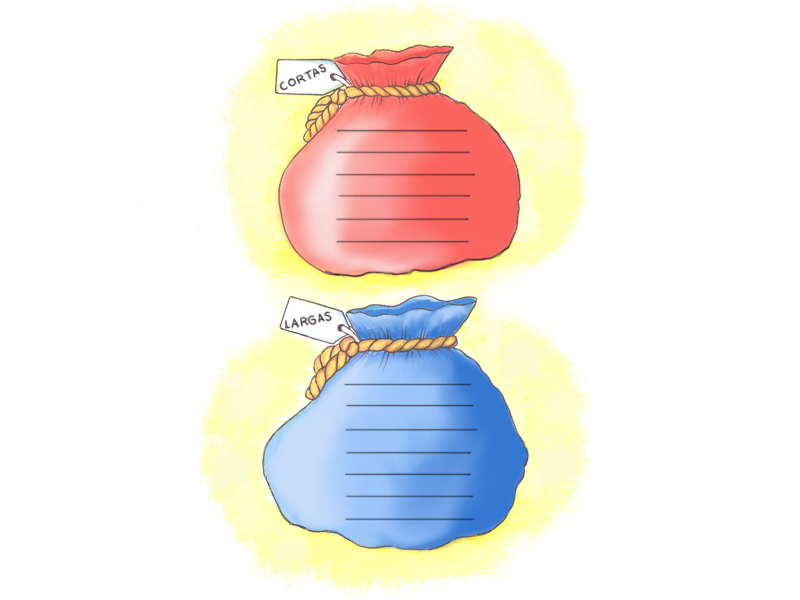
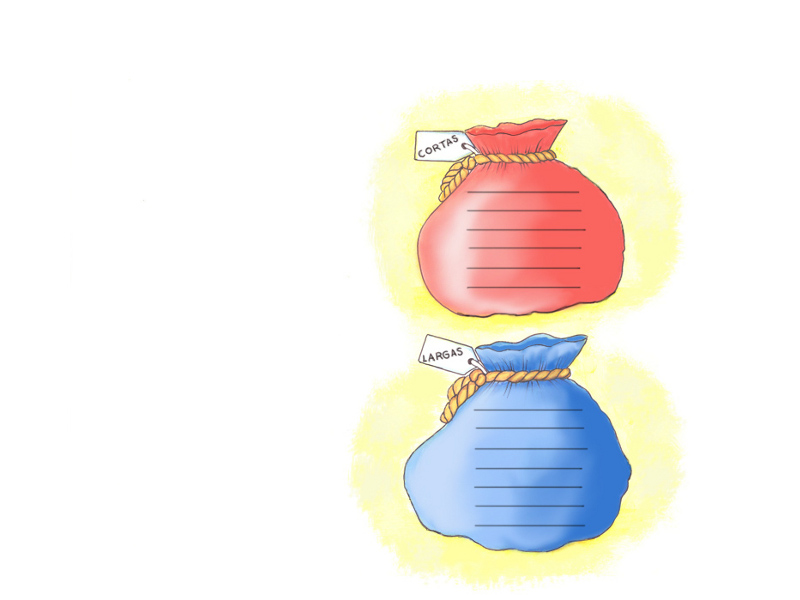
Primera versión de actividad 20
* Se agrega el código y las imáges de la actividad 20: Palabras largas,
   palabras cortas

diff --git a/src/words.py b/src/words.py
@@ -1,0 +1,228 @@
+# vim:ts=4:sts=4:et:nowrap:tw=77
+# -*- coding: utf-8 -*-
+
+import os
+import sys
+import pygame
+from pygame.sprite import Sprite
+from pygame.locals import *
+
+import constants
+from activity import Activity
+import common
+from icons import *
+
+class Word(Sprite):
+    def __init__(self, name, pos=(0,0)):
+        Sprite.__init__(self)
+        image_name = os.path.join(constants.data_folder, "words",
+                                  name  + ".png")
+        self.normal, self.rect = common.load_image(image_name, True)
+        self.size = self.normal.get_size()
+        self.origin = pos
+        self.name = name
+        self.zoom = pygame.transform.scale(self.normal, (self.size[0] * 1.3, 
+                                                        self.size[1] * 1.3))
+        self.image = self.normal
+        self.update(pos)
+        return
+
+    def change_size(self):
+        if self.image is self.normal:
+            self.image = self.zoom
+        else:
+	        self.image = self.normal
+        return
+	
+    def update(self, pos):
+        self.rect.topleft = pos
+
+    def reset(self):
+        self.rect.topleft = self.origin
+
+
+class Hand(Sprite):
+    def __init__(self):
+        Sprite.__init__(self)
+        path = os.path.join(constants.data_folder, "cursors", "hand")
+        self.open, self.rect = common.load_image(path + "-open.png")
+        self.close, self.rect = common.load_image(path + "-close.png")
+        self.image = self.open
+        return
+
+    def change_hand(self):
+        if self.image is self.open:
+            self.image = self.close
+        else:
+            self.image = self.open
+        return
+
+    def update(self, pos=(0, 0)):
+        self.rect.topleft = pos
+        return
+
+class Bag:
+    def __init__(self, name, rect, sheet, sep=19):
+        self.sep = sep
+        self.rect = Rect(rect)
+        self.sheet = sheet
+        self.next = [sheet[0], sheet[1]]
+        self.name = name
+        self.content = []
+        return
+        
+    def draw(self, screen):
+        sheet = Rect(self.sheet)
+        pygame.draw.rect(screen, (0,255,0), self.sheet)
+        pygame.draw.rect(screen, (0,2,0), self.rect)
+        return
+
+    def add(self, item):
+        item.update(self.next)
+        self.content.append(item)
+        self.next[1] += self.sep
+        return
+    
+    def contains(self, rect):
+        return self.rect.contains(rect)
+
+
+class Words(Activity):
+    def __init__(self, screen):
+        Activity.__init__(self, screen)
+        self.background = common.load_image(constants.illustration_019)[0]
+        words = {
+                'saludable': (114, 236),
+                'risa': (41, 264),
+                'alimentos': (143, 283),
+                'agua': (41, 307),
+                'descanso': (101, 346),
+                'amor': (89, 375),
+                'limpieza': (26, 407),
+                'deporte': (149, 445),
+                'sol': (59, 463),
+                'aire': (109, 490),
+                'aseo': (55, 514),
+                'banarse': (193, 542),
+                }
+
+        title = u"Palabras largas, palabras cortas"
+        instructions = (u"Estas palabras están relacionadas con la salud. ",
+                        u"  ",
+                        u"Arrastra hacia la bolsa azul ",
+                        u"las palabras que tienen ",
+                        u"menos de 5 letras y hacia la ",
+                        u"bolsa roja las que tienen ",
+                        u"más de 5 letras.")
+        font_title = pygame.font.SysFont(constants.font_title[0],
+                                         constants.font_title[1])
+        font_default = pygame.font.SysFont(constants.font_default[0],
+                                           constants.font_default[1])
+        tsize = font_title.size(title)
+        isize = font_default.size(instructions[0])[1]
+        title_pos = (constants.screen_mode[0]/2.0 - tsize[0]/2.0, 0)
+        instruction_pos = (10, title_pos[1] + tsize[1])
+        title = font_title.render(title, True, (102, 102, 102))
+        instructions_ = []
+        for i in instructions:
+            line = font_default.render(i, True, (102, 102, 102))
+            instructions_.append(line)
+        self.text = (((title,), title_pos), (instructions_, instruction_pos))
+        self.hand = Hand()
+        self.icons = pygame.sprite.Group()
+        self.icons.add([Icons('stop')])
+        self.words = pygame.sprite.Group()
+        self.sprites = pygame.sprite.OrderedUpdates()
+        for word, pos in words.items():
+            word_ = Word(word, pos)
+            self.sprites.add(word_)
+            self.words.add(word_)
+        self.sprites.add([self.icons, self.hand])
+        self.sprites.draw(self.screen)
+        self.selected = None
+        self.bags = (Bag('cortas', (430, 150, 170, 150), (475, 175, 100, 120)), 
+                     Bag('largas', (430, 375, 170, 160), (480, 395, 105, 130)))
+                
+        return
+
+    def draw_text(self):
+        x, y = 0, 0
+        for i in self.text:
+            x = i[1][0]
+            y = i[1][1]
+            surfaces = i[0]
+            for surface in surfaces:
+                pos = (x, y)
+                self.screen.blit(surface, pos)
+                y = y + surface.get_height()
+
+        return
+
+    def setup(self):
+        pygame.event.clear()
+        self.draw_text()
+        self.sprites.draw(self.screen)
+        pygame.display.update()
+
+    def handle_events(self):
+        for event in self.get_event():
+            pos = pygame.mouse.get_pos()
+            if event.type == QUIT:
+                self.quit = True
+                return
+            elif event.type == KEYUP:
+                if event.key == K_ESCAPE:
+                    self.quit = True
+                    return
+            if event.type == MOUSEMOTION:
+                self.hand.update(pos)
+                if self.selected:
+                    self.selected.update(pos)
+            if event.type == MOUSEBUTTONDOWN:
+                if pygame.sprite.spritecollideany(self.hand, self.icons):
+                    self.quit = True
+                    return
+                self.hand.change_hand()
+                self.selected = pygame.sprite.spritecollideany(self.hand, 
+                                                               self.words)
+                if self.selected:
+                    self.selected.change_size()
+            elif event.type == MOUSEBUTTONUP:
+                self.hand.change_hand()
+                if self.selected:
+                    added = False
+                    for bag in self.bags:
+                        if bag.contains(self.selected.rect) and \
+                                self.correct(self.selected, bag):
+                            bag.add(self.selected)
+                            self.words.remove(self.selected)
+                            added = True
+                    if not added:
+                        self.selected.reset()
+                    
+                    self.selected.change_size()
+                    self.selected = None
+
+            if not self.words:
+                self.finished_ = True
+
+            self.screen.blit(self.background, (0,0))
+            self.draw_text()
+            self.sprites.draw(self.screen)
+            pygame.display.update()
+
+    def correct(self, word, bag):
+        if len(word.name) <= 5 and bag.name == 'cortas':
+            return True
+        elif len(word.name) > 5 and bag.name == 'largas':
+            return True
+        else:
+            return False
+
+
+if __name__ == "__main__":
+	pygame.init()
+
+	screen = pygame.display.set_mode(constants.screen_mode, 32)
+    words = Words(screen)
+    words.run()

diff --git a/src/salud.py b/src/salud.py
@@ -12,7 +12,7 @@ import constants
 import common
 from menu import MenuItem, MainMenu
 from reads import PoetryActivity, PoetryActivity2, VerseActivity, Verse2Activity
-from links import Shower
+from links import Shower, Meals
 from soups import SoupActivity, SoupActivity2
 from crazyletter import CrazyLetterActivity
 from puzzle import PuzzleActivity, Puzzle2Activity,\
@@ -29,6 +29,7 @@ from select import SelectActivity, Select2Activity,\
         Select3Activity
 from careful import CarefulActivity
 from painting import PaintActivity, Paint2Activity
+from words import Words
 
 def main():
 	# Mixer pre init
@@ -63,15 +64,14 @@ def main():
         MenuItem('order2', OrderActivity2, 'order'), # Act 12
         MenuItem('diff', Select3Activity, 'select'), # Act 13
         MenuItem('environment', SoupActivity2, 'soups'), # Act 14
-        # TODO Act 15
+        MenuItem('cleaning', Labyrinth2Activity, 'labyrinth'), #  Act 15
         MenuItem('verses', VerseActivity, 'readings'), # Act 16
         MenuItem('verses', Verse2Activity, 'readings'), # Act 16
         MenuItem('room', Room, 'select'), # Act 17
         MenuItem('beach', Select2Activity, 'select'), # Act 18
         MenuItem('warning', CarefulActivity, 'dragndrop'), # Act 19
-        # TODO Act 20
+        MenuItem('words', Words, 'dragndrop'), # Act 19
         MenuItem('shopping', Shopping, 'dragndrop'), # Act 21
-        MenuItem('cleaning', Labyrinth2Activity, 'labyrinth'), #  Act 22
         MenuItem('painting', PaintActivity, 'paint'), #  Act 23
         MenuItem('painting', Paint2Activity, 'paint'), #  Act 23
         MenuItem('riddle', Riddle1, 'complete'), # Act 24-1
@@ -81,7 +81,7 @@ def main():
         MenuItem('riddle', Riddle5, 'complete'), # Act 24-5
         MenuItem('riddle', Riddle6, 'complete'), # Act 25
         MenuItem('cooking', Cooking, 'dragndrop'), # Act 26
-        # TODO Act 27
+        MenuItem('meals', Meals, 'associations'), # Act 27
     ]
 
 	MainMenu(screen, items).run()

diff --git a/src/constants.py b/src/constants.py
@@ -98,6 +98,7 @@ illustration_016 = os.path.join(data_folder, "backgrounds", "illustration_016.jp
 
 # Careful
 illustration_018 = os.path.join(data_folder, "backgrounds", "illustration_018.jpg")
+illustration_019 = os.path.join(data_folder, "backgrounds", "illustration_019.jpg")
 
 # Painting
 painting_folder = os.path.join(data_folder, "painting")
